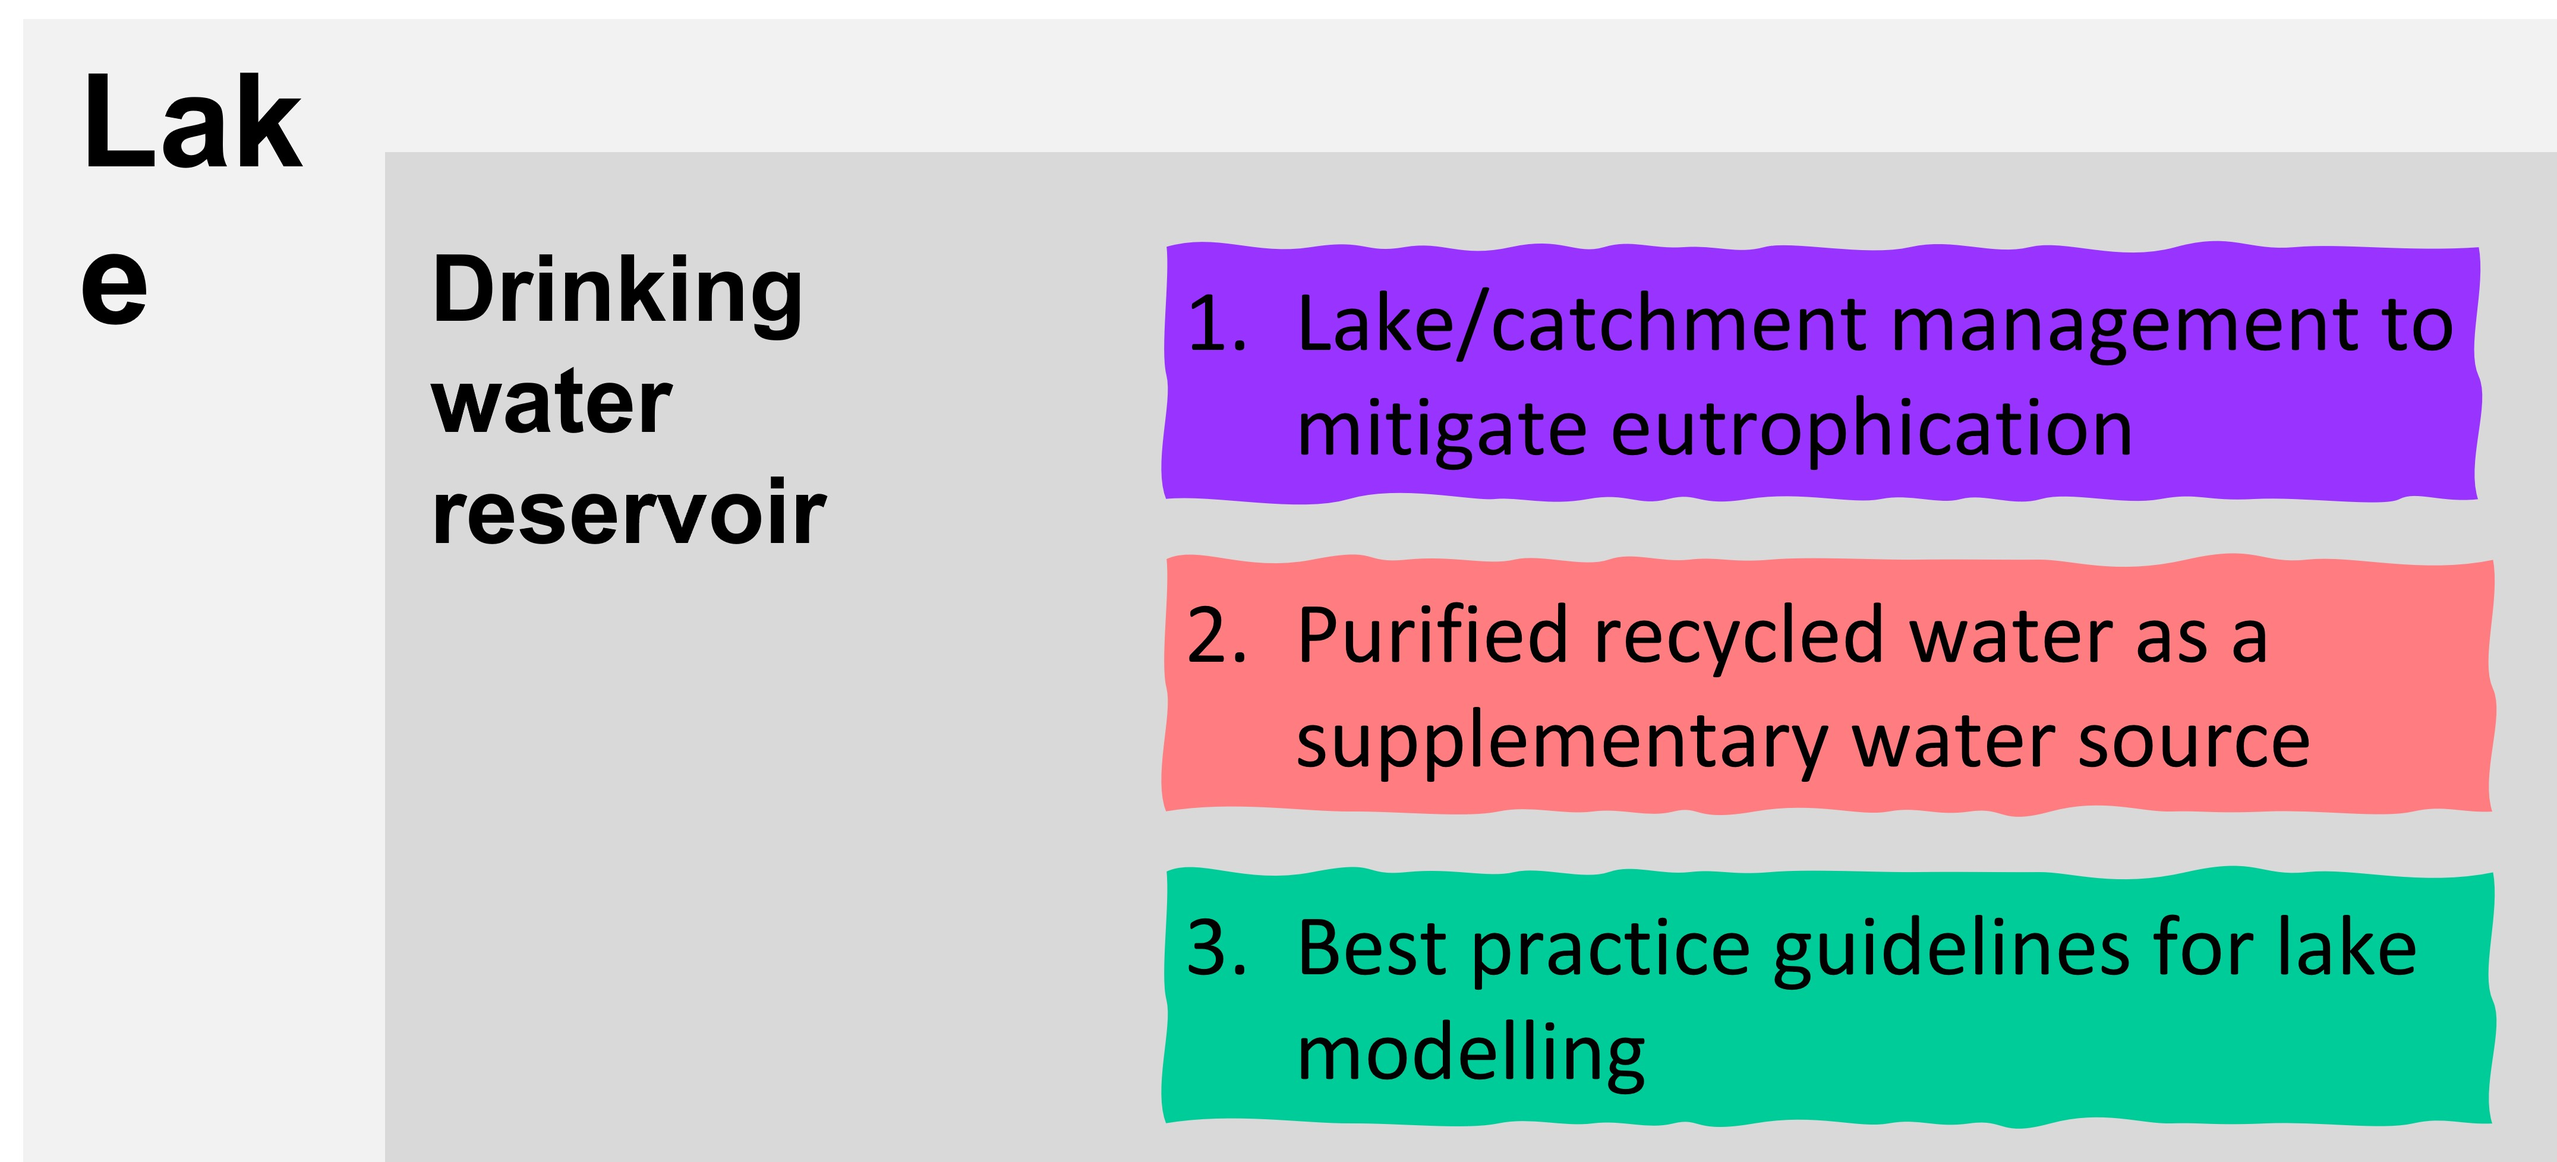
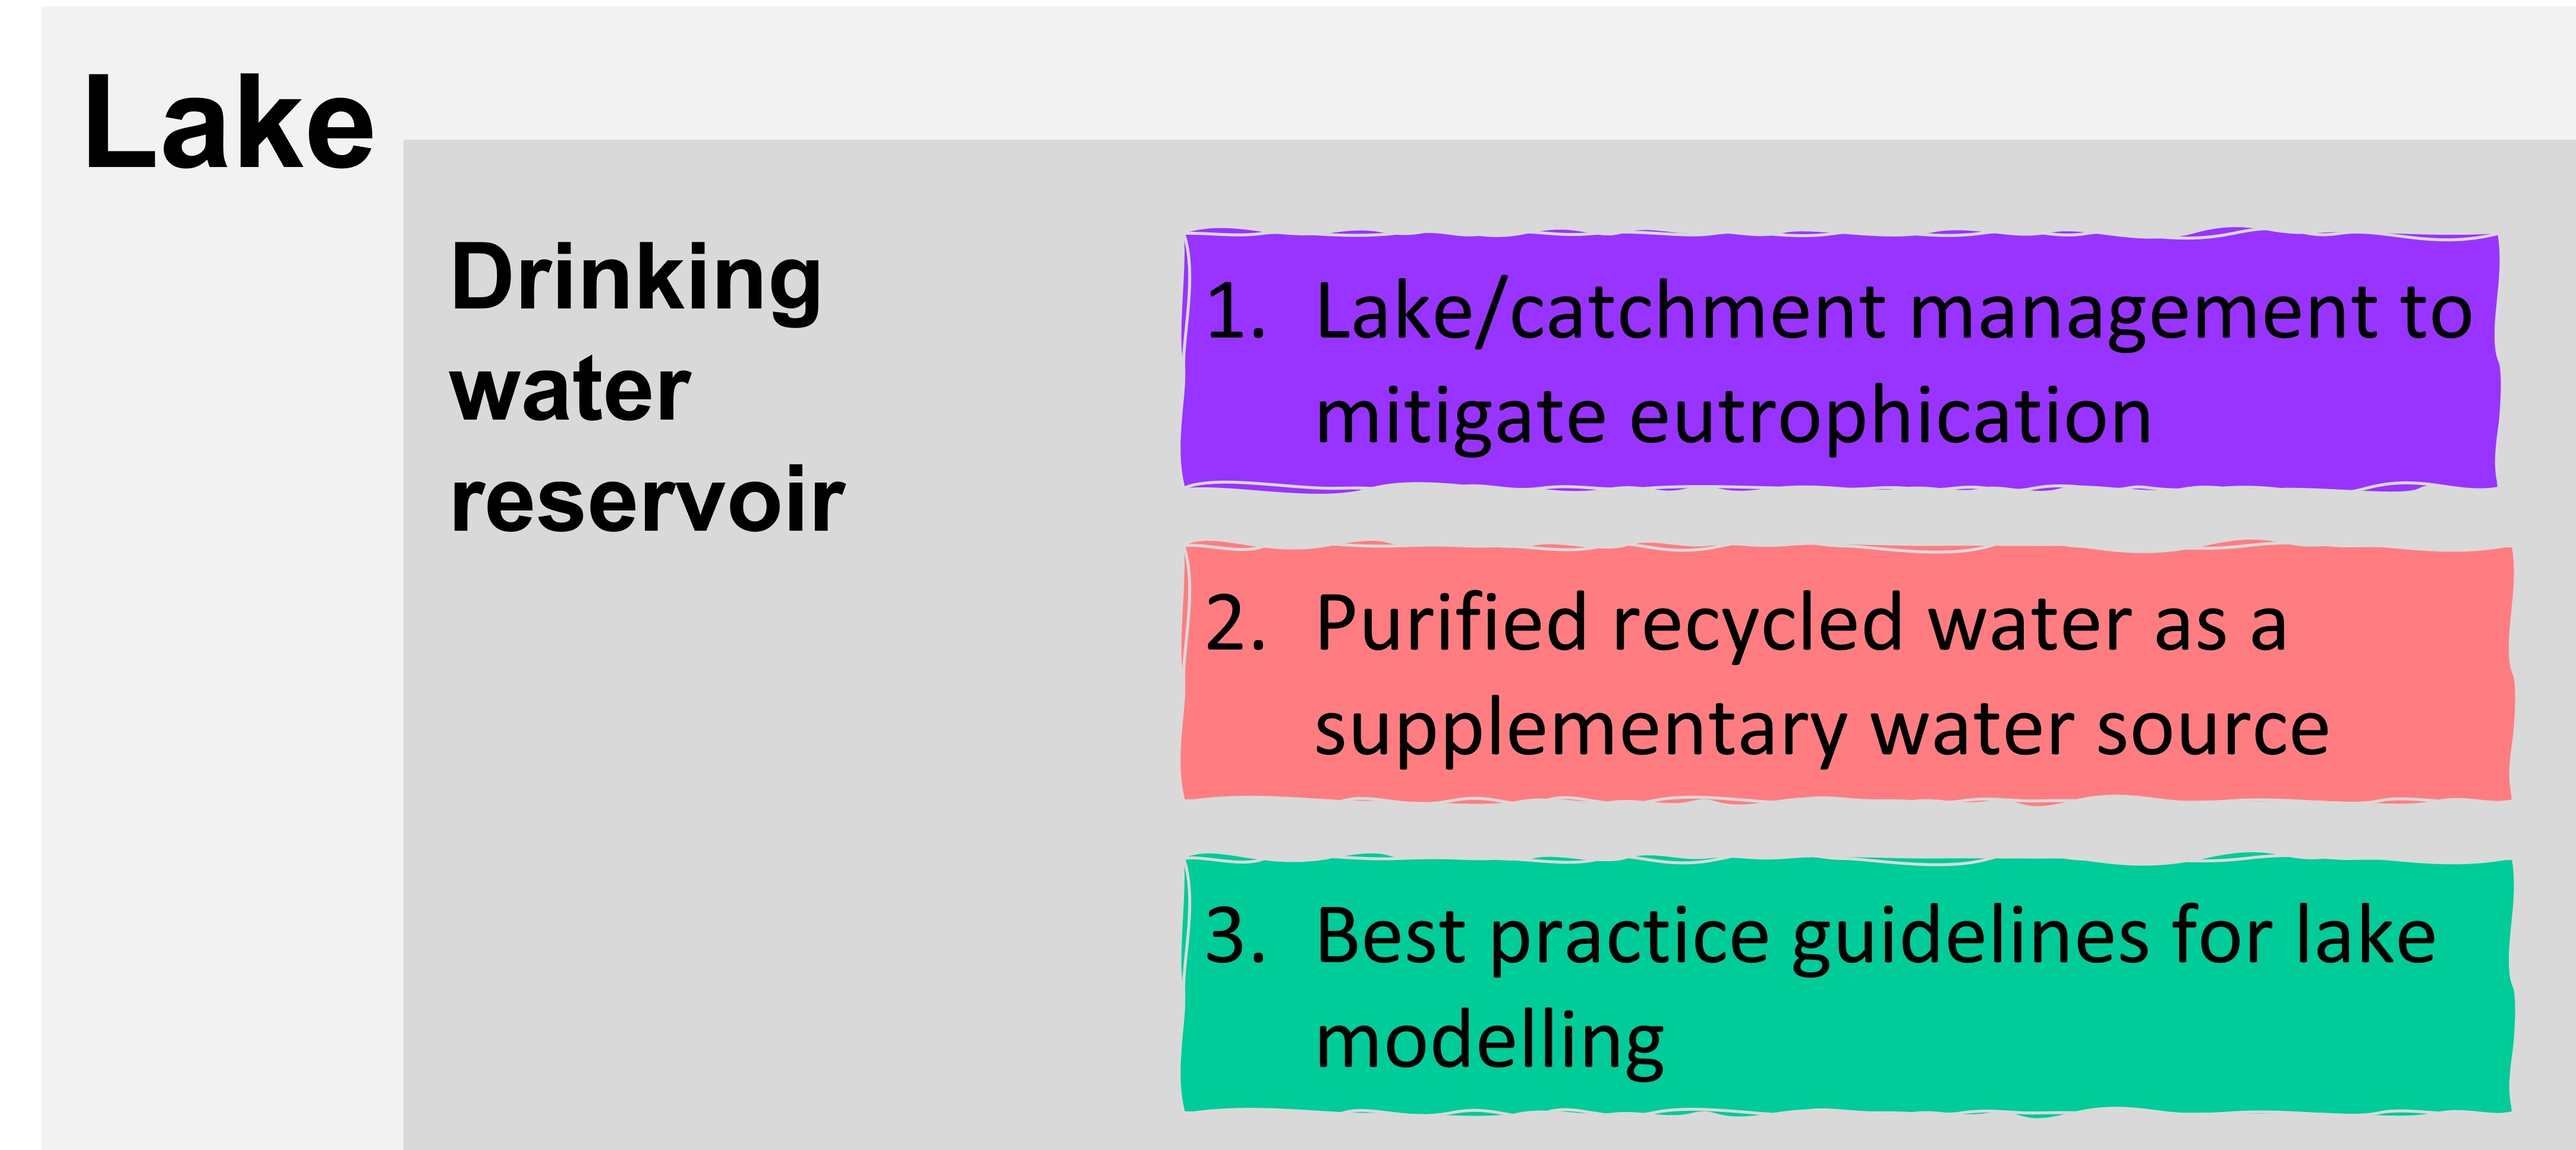
add lake research

diff --git a/research.html b/research.html
@@ -12,7 +12,9 @@ qualification: passive
 a range of research projects to apply various research tools (e.g., statistical models and aquatic ecosystem models) to inform management of river networks 
 and lake ecosystems. Below is a bit detail about my research on river and lake, respectively.
 </font></p>
+</div>
 
+<div>
 <h3>1. River</h3>
 
 <img src="images/riverResearch.jpg" alt="river research framework" width=600/>
@@ -57,4 +59,58 @@ But if you feel interested in this research, you are welcome to reach out to me 
 </font></p>
 
 </div>
+
+<div>
+<h3>2. Lake</h3>
+
+<img src="images/lakeResearch.jpg" alt="lake research framework" width=600/>
+<p></p>
+
+<p>
+My lake research is focused on drinking water reservoirs, with extensive collaborations with the water utility industry.
+Drinking water reservoirs provide invaluable water resource to human society but are strongly influenced by human activities
+that occurr in the catchment and the lake. My lake research looks to understand how various aspects of the lake (e.g., water
+volume, nutrients, phytoplankton, and microorganism) are affected.
+</p>
+
+<p>
+1) increased nutrient loads from the catchment and sediment release from the lake bottom can lead to eutrophication and algal bloom,
+posing significant risks to drinking water security. Part of my lake reserch tries understand the whole lake system through aquatic
+ecosystem modelling and propose potential management options to <b>mitigate eutrophication issues</b>.
+</p>
+
+<p>
+Several project reports have been generated from this research (see below), and can be made available on reasonable request.
+<ul>
+<li>Impact of projected climate change on inflows to Grid10 water storages in south-east Queensland</li>
+<li>Trialling potential options to restore water quality in Lake Hugh Muntz</li>
+</ul>
+</p>
+
+<p>
+2) Purified recycled water (PRW) can be a climate resilient water source and has been introduced for direct/indirect potable reuse around the world.
+I have been working with Seqwater and my Griffith colleagues to assess algal bloom and microbial risks from PRW addition in a large drinking water reservoir.
+</p>
+
+<p>
+More detail about this research can be found from below project reports, which can be available on reasonable request.
+<li>Assessing algal bloom risk from PRW inputs in Lake Wivenhoe. Part 2: Modelling study</li>
+<li>Purified Recycled Water and Lake Wivenhoe Modelling of pathogen fate and transport</li>
+</p>
+
+<p>
+3) Lake model, i.e. aquatic ecosystem model, is an important tool for researchers and water utilities to understand drinking water reservoirs,
+and the quality of model outputs heavily relies on several key modelling steps, but different modellers may take different steps in
+applying the models. We thus need <b>a set of best practice guidelines for lake modelling</b> to guide the model application and provide confidence in
+the quality of model outputs.
+</p>
+
+<p>
+I am currently leading a research project to address this objective, with the below publication so far:
+<ul>
+<li><a href = 'https://doi.org/10.1016/j.envsoft.2022.105334'>Developing best practice guidelines for lake modelling to inform quantitative microbial risk assessment</a></li>
+</ul>
+</p>
+</div>
+
 </div>

diff --git a/assets/css/framework.css b/assets/css/framework.css
@@ -17,16 +17,16 @@ a.button{
 h3.text-muted a {text-decoration: none; color: #999999; }
 h3.text-muted a:hover { text-decoration: none; color: #0088cc; }
 
-.qualification {line-height: 23px; width: 90%; margin: auto auto;}
-.qualification li { line-height: 23px; font-size:16px;}
+.qualification {line-height: 23px; width: 60%; margin: auto auto;}
+.qualification li { line-height: 23px; font-size:17px;}
 .qualification h2 { font-size: 26.5px; }
 .qualification h1 { font-size: 32.5px; }
-.qualification p {font-size: 16px;}
+.qualification p {font-size: 17px;}
 .qualification address {font-size: 16px;}
 .qualification dl {font-size: 16px;}
 
 .research { width: 60%; margin: auto auto; line-height: 23px; }
-.research p {font-size: 16px;}
+.research p {font-size: 17px;}
 
 .research, .qualification, .leafletlake { margin-bottom: 30px; }
 
